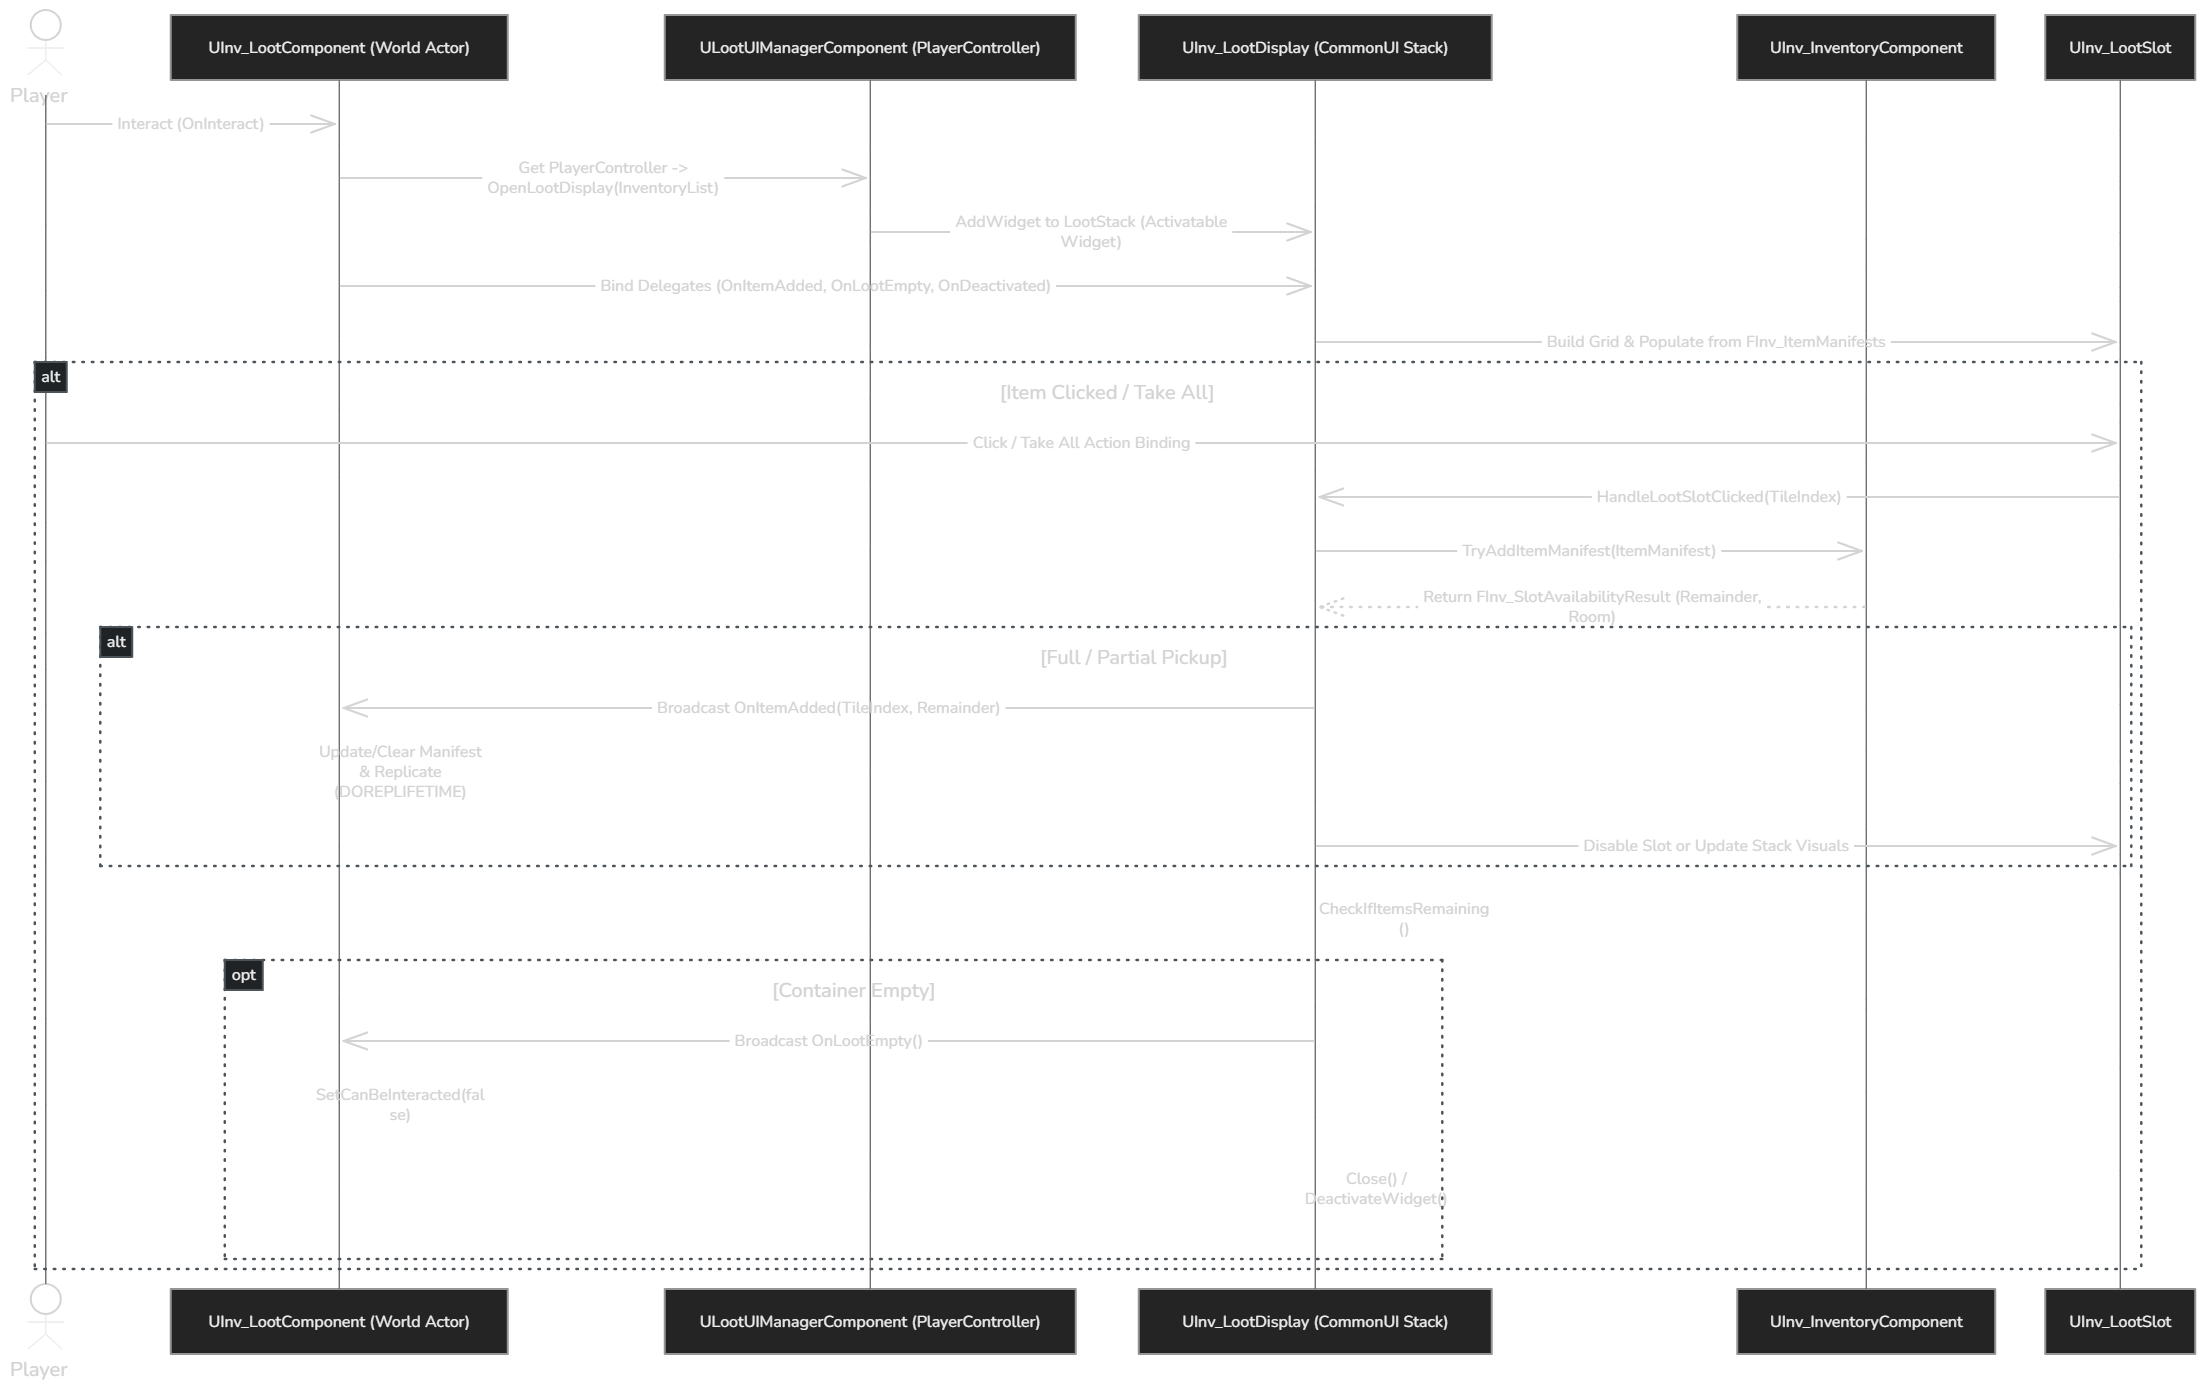
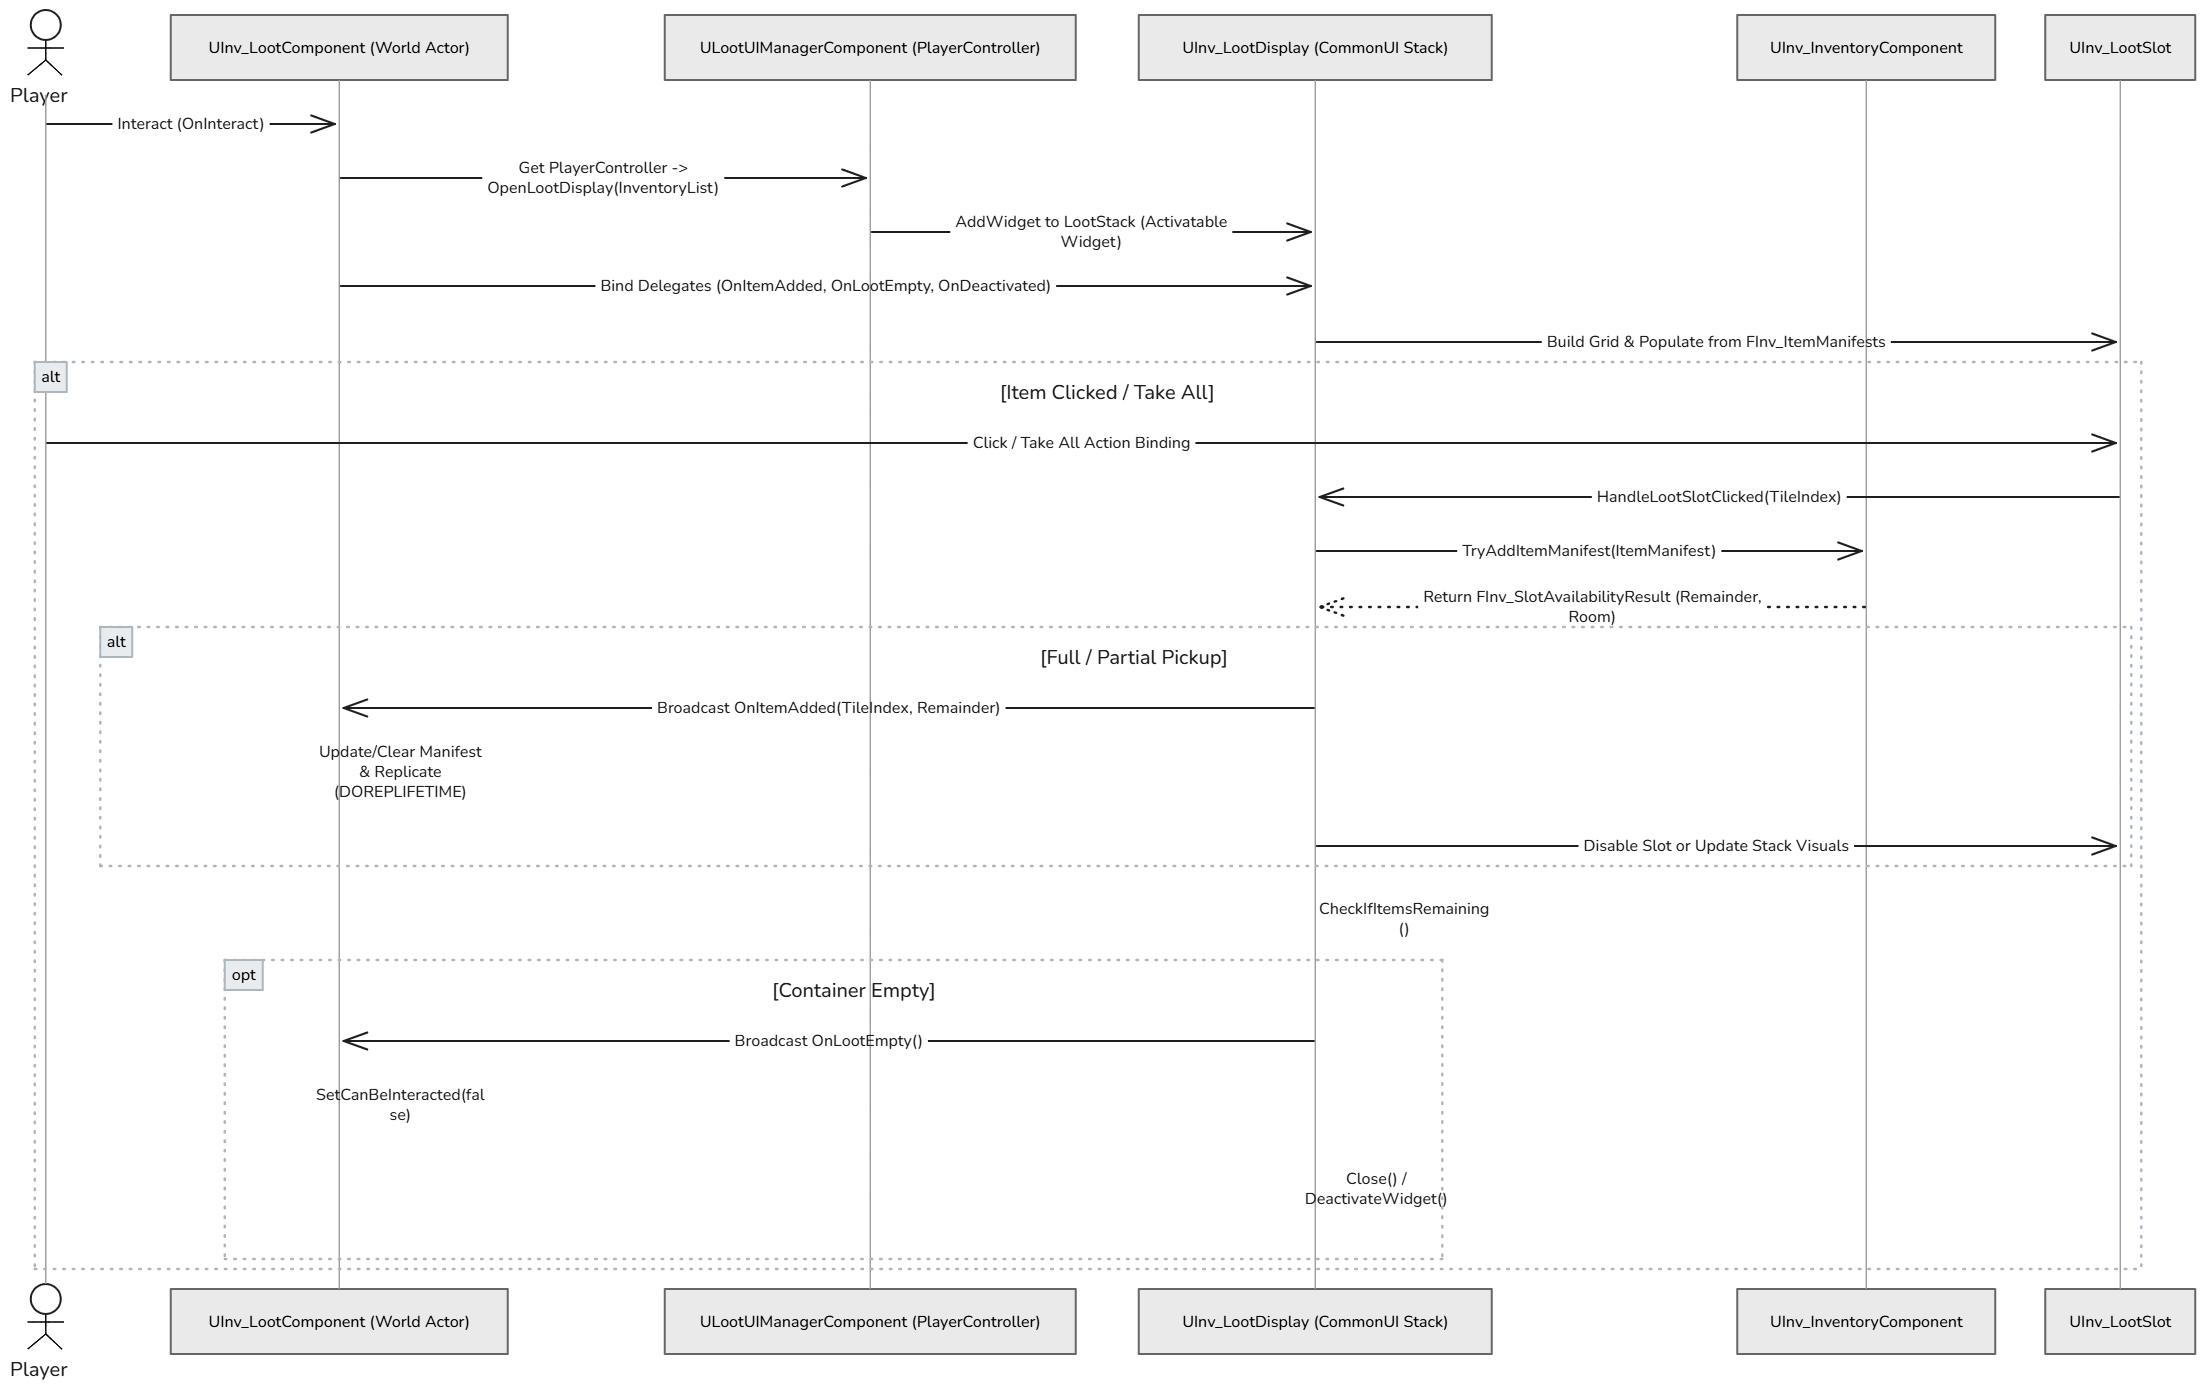
Tried non dark-theme excalidraw image. Fix code implementation

diff --git a/loot_system/index.html b/loot_system/index.html
@@ -96,5 +96,27 @@ else
         </div>
     </div>
 
+    <script src="https://cdnjs.cloudflare.com/ajax/libs/prism/1.29.0/prism.min.js"></script>
+    <script src="https://cdnjs.cloudflare.com/ajax/libs/prism/1.29.0/components/prism-c.min.js"></script>
+    <script src="https://cdnjs.cloudflare.com/ajax/libs/prism/1.29.0/components/prism-cpp.min.js"></script>
+
+    <script>
+        function copyCode(button) {
+            const codeContainer = button.nextElementSibling;
+            const codeBlock = codeContainer.querySelector('code');
+
+            navigator.clipboard.writeText(codeBlock.innerText).then(() => {
+                const originalText = button.innerText;
+                button.innerText = 'Copied!';
+                button.style.background = '#0284c7';
+
+                setTimeout(() => {
+                    button.innerText = originalText;
+                    button.style.background = '#334155';
+                }, 2000);
+            });
+        }
+    </script>
+
 </body>
 </html>
